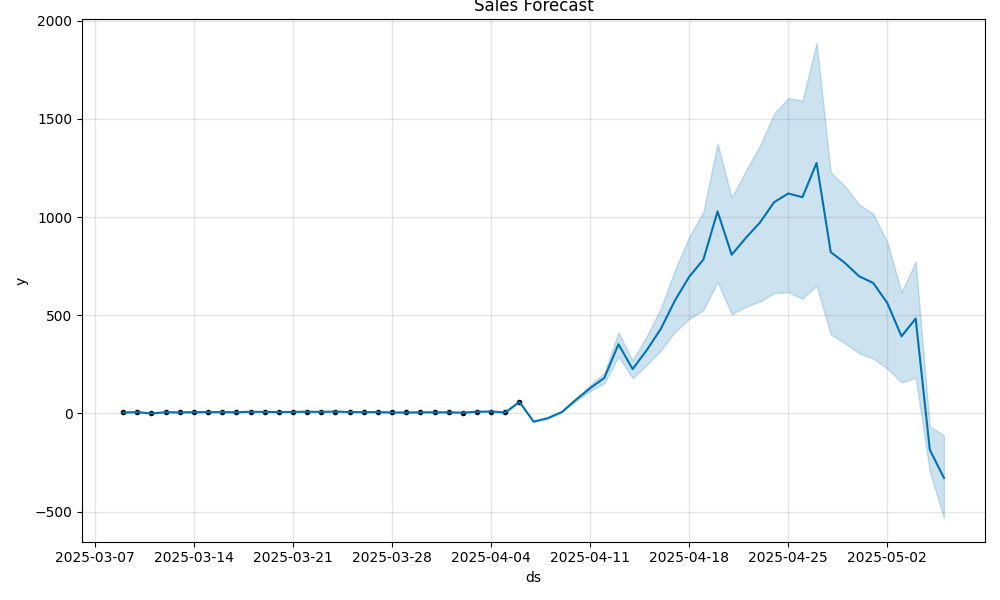
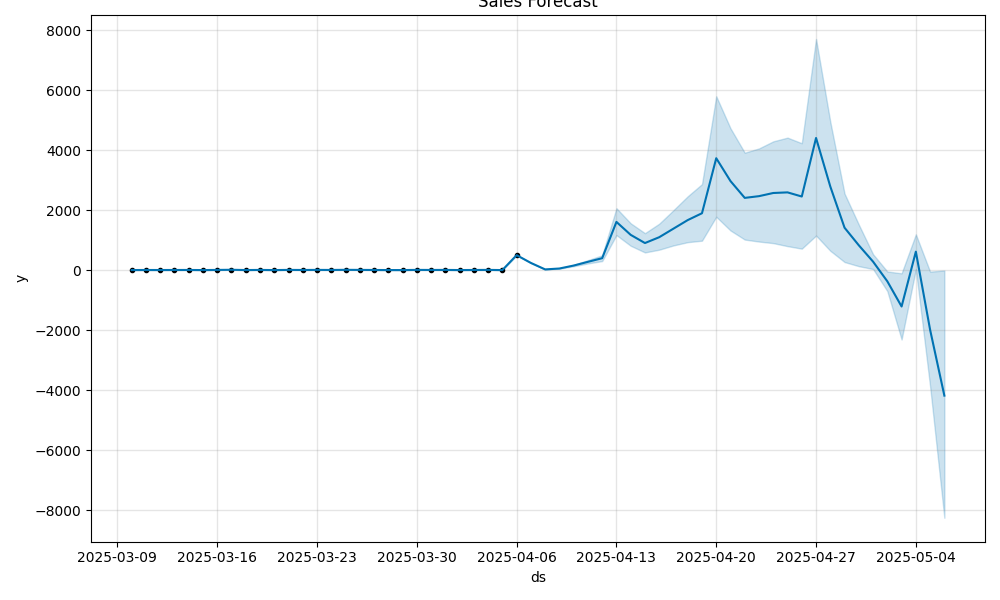
feat: update price formatting to use localized currency display in product list

diff --git a/frontend/src/views/admin/AllProducts.vue b/frontend/src/views/admin/AllProducts.vue
@@ -57,7 +57,7 @@
                                 </td>
                                 <td>{{ product.name }}</td>
                                 <td>{{ product.category }}</td>
-                                <td>₱{{ formatPrice(product.price) }}</td>
+                                <td>{{ formatPrice(product.price) }}</td>
                                 <td>
                                     <div class="options-count">
                                         <span v-if="product.choices && product.choices.length">
@@ -119,7 +119,7 @@
                                                         >
                                                     </td>
                                                     <td>{{ choice.name }}</td>
-                                                    <td>₱{{ formatPrice(choice.price) }}</td>
+                                                    <td>{{ formatPrice(choice.price) }}</td>
                                                     <td>
                                                         <span 
                                                             :class="getStockStatusClass(choice.stock)" 
@@ -472,7 +472,12 @@ export default {
         },
         
         formatPrice(price) {
-            return Number(price).toFixed(2);
+            return new Intl.NumberFormat('en-PH', {
+                style: 'currency',
+                currency: 'PHP',
+                minimumFractionDigits: 2,
+                maximumFractionDigits: 2
+            }).format(price).replace('PHP', '₱');
         },
         
         handleImageError(e) {
